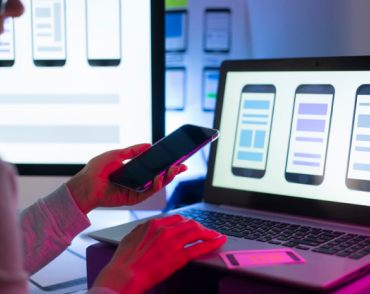
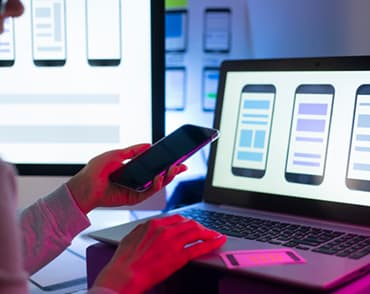
додав тіні

diff --git a/src/css/styles.css b/src/css/styles.css
@@ -124,11 +124,11 @@ img {
   padding-top: 200px;
   padding-bottom: 200px;
   background-color: var(--color-bg-primary);
-  background-image: url(../img/hero/Img.jpg);
+  background-image: url(../img/hero/hero\ img.jpg);
+  background-size: cover;
   display: flex;
   flex-direction: column;
   align-items: center;
-  box-shadow: 0 27px 0 rgba(0, 0, 0, 0.5);
 }
 .hero-title {
   color: var(--color-header-bord);
@@ -149,7 +149,7 @@ img {
   font-size: 16px;
   line-height: 1.8;
   border: 0;
-  box-shadow: 2px 2px 2px rgba(0, 0, 0, 0.3);
+  box-shadow: 0 2px 2px rgba(0, 0, 0, 0.3);
 }
 
 .advantages-list {
@@ -191,10 +191,13 @@ img {
 .team-list {
   display: flex;
   gap: 30px;
+  justify-content: center;
 }
 .team-item {
+  display: flex;
   background-color: var(--color-header-bord);
-  box-shadow: 2px 2px 2px rgba(0, 0, 0, 0.3);
+  box-shadow: 0 2px 2px rgba(0, 0, 0, 0.3);
+  flex-basis: 25%;
 }
 .team-title {
   color: var(--color-text-title);
@@ -246,6 +249,7 @@ img {
   font-size: 26px;
   letter-spacing: 0.03em;
   color: var(--color-second-logo);
+  padding-bottom: 20px;
 }
 .logo-white {
   line-height: 1.19;
@@ -253,6 +257,7 @@ img {
   font-family: var(--font-secondary);
   color: var(--color-header-bord);
   font-size: 26px;
+  padding-bottom: 20px;
 }
 .footer-contacts {
   font-family: "Roboto", sans-serif;
@@ -261,6 +266,7 @@ img {
   display: flex;
   flex-direction: column;
   justify-content: flex-start;
+  gap: 9px;
 }
 .footer-contacts-link {
   color: var(--color-header-bord);
@@ -277,7 +283,7 @@ img {
   font-size: 16px;
   line-height: 1.6;
   border: 0;
-  box-shadow: 2px 2px 2px rgba(0, 0, 0, 0.3);
+  box-shadow: 0 2px 2px rgba(0, 0, 0, 0.3);
 }
 .filters-list {
   display: flex;
@@ -288,7 +294,9 @@ img {
 }
 .portfolio-item {
   background-color: var(--color-header-bord);
-  box-shadow: 2px 2px 2px rgba(0, 0, 0, 0.3);
+}
+.portfolio-item:hover {
+  box-shadow: 0 2px 2px rgba(0, 0, 0, 0.3);
 }
 .portfolio-list {
   display: flex;

diff --git a/src/pages/portfolio.html b/src/pages/portfolio.html
@@ -30,7 +30,7 @@
         <nav class="navigation">
           <ul class="nav-list">
             <li class="nav-item">
-              <a class="nav-link" href="./index.html">Студія</a>
+              <a class="nav-link" href="/index.html">Студія</a>
             </li>
             <li class="nav-item">
               <a class="nav-link" href="./src/pages/portfolio.html"
@@ -144,7 +144,7 @@
                 <div class="product-photo">
                   <img
                     class="product-img"
-                    src="../img/portfolio/monitor.png"
+                    src="../img/portfolio/monitor.jpg"
                     alt="монітор"
                   />
                 </div>

diff --git a/index.html b/index.html
@@ -4,7 +4,7 @@
     <meta charset="UTF-8" />
     <meta name="viewport" content="width=device-width, initial-scale=1.0" />
     <title>WebStudio</title>
-    <link rel="stylesheet" href="./src/css/styles.css" />
+
     <link rel="preconnect" href="https://fonts.googleapis.com" />
     <link rel="preconnect" href="https://fonts.gstatic.com" crossorigin />
     <link
@@ -20,6 +20,7 @@
       referrerpolicy="no-referrer"
     />
     <link rel="stylesheet" href=".//src/css/reset.css" />
+    <link rel="stylesheet" href="./src/css/styles.css" />
   </head>
   <body>
     <header class="header">
